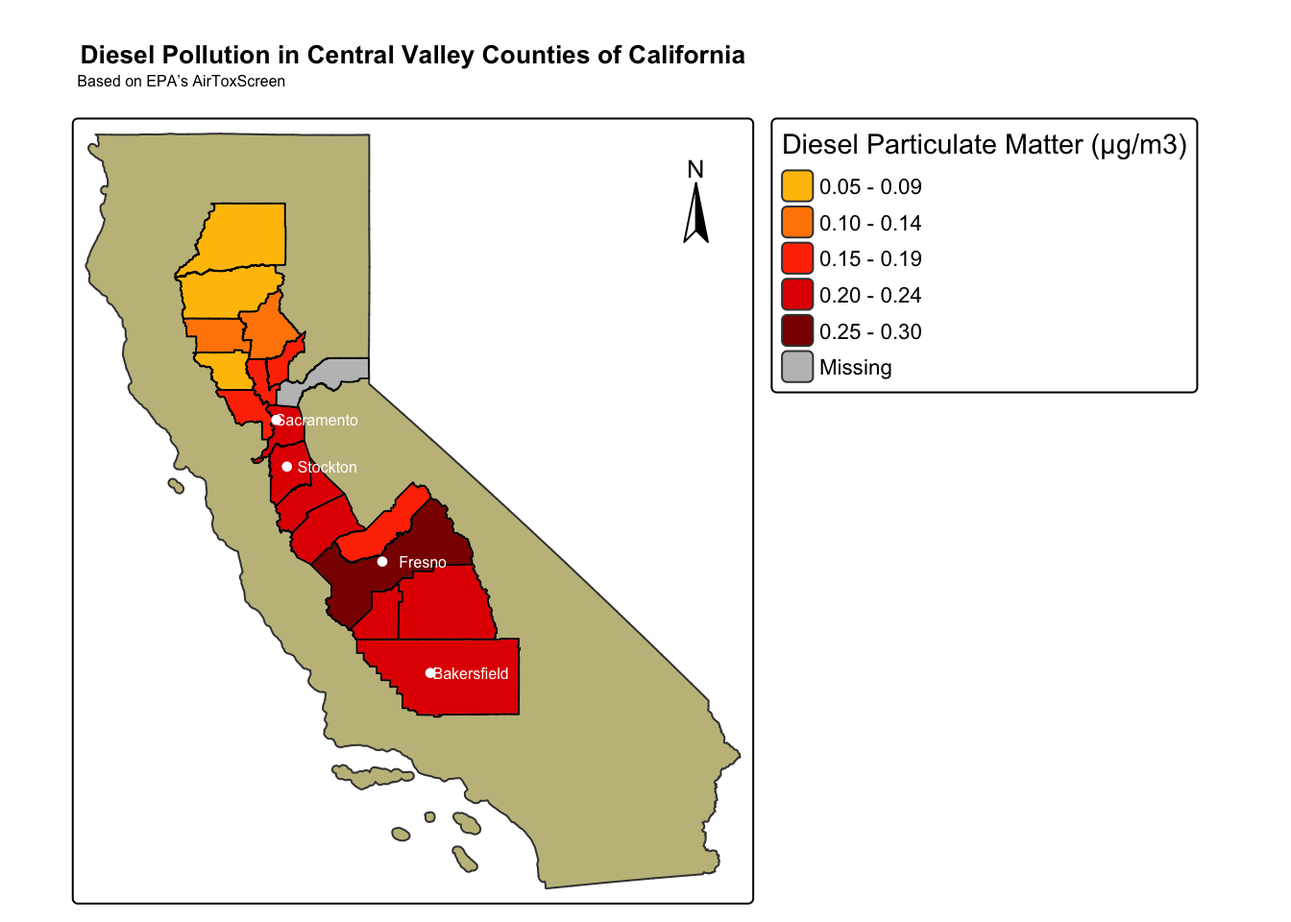
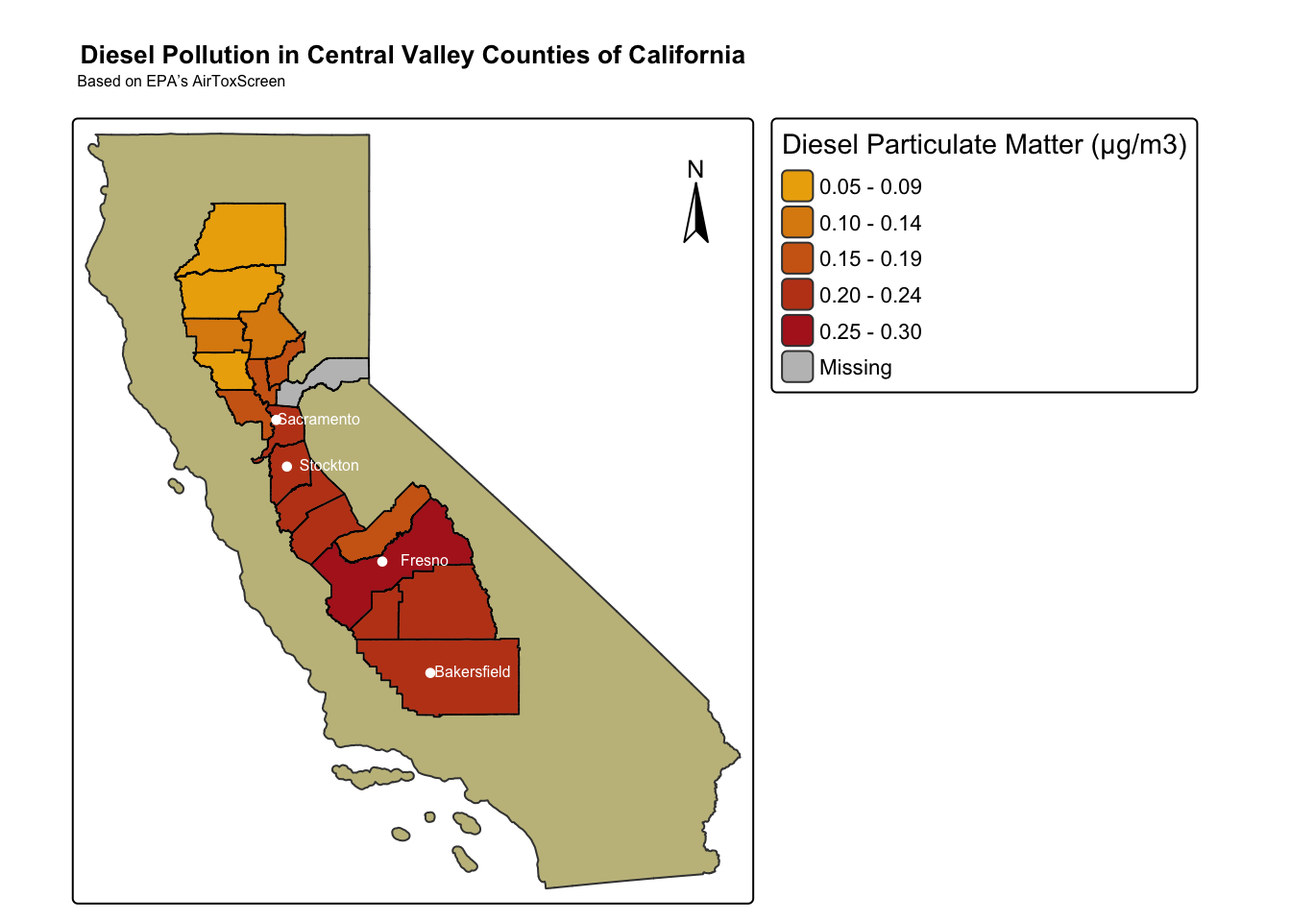
Final edits to homework #1

Changed region(s): [[0.125, 0.3125, 0.4062, 0.7812], [0.5938, 0.2188, 0.6562, 0.375]]

diff --git a/ej_screen.html b/ej_screen.html
@@ -271,42 +271,34 @@ code span.wa { color: #60a0b0; font-weight: bold; font-style: italic; } /* Warni
 </header>
 
 
-<h1 id="exploring-environmental-injustice">Exploring Environmental Injustice</h1>
+<h1 id="exploring-an-environmental-justice-issue">Exploring an Environmental Justice Issue</h1>
 <h3 id="objective" class="anchored">Objective</h3>
 <p>Utilize the U.S. Environmental Protection Agency’s EJ Screen data to produce two maps communicating an environmental justice issue.</p>
 <h3 id="environment-set-up" class="anchored">Environment Set-up</h3>
 <div class="cell">
-<div class="sourceCode cell-code" id="cb1"><pre class="sourceCode r code-with-copy"><code class="sourceCode r"><span id="cb1-1"><a href="#cb1-1" aria-hidden="true" tabindex="-1"></a><span class="co">#| warning: false  </span></span>
-<span id="cb1-2"><a href="#cb1-2" aria-hidden="true" tabindex="-1"></a><span class="co">#| message: false</span></span>
-<span id="cb1-3"><a href="#cb1-3" aria-hidden="true" tabindex="-1"></a></span>
-<span id="cb1-4"><a href="#cb1-4" aria-hidden="true" tabindex="-1"></a></span>
-<span id="cb1-5"><a href="#cb1-5" aria-hidden="true" tabindex="-1"></a><span class="co"># Load relevant libraries</span></span>
-<span id="cb1-6"><a href="#cb1-6" aria-hidden="true" tabindex="-1"></a><span class="fu">library</span>(sf) <span class="co"># For vector data</span></span>
-<span id="cb1-7"><a href="#cb1-7" aria-hidden="true" tabindex="-1"></a><span class="fu">library</span>(stars) <span class="co"># For raster data </span></span>
-<span id="cb1-8"><a href="#cb1-8" aria-hidden="true" tabindex="-1"></a><span class="fu">library</span>(tmap) <span class="co"># For static and interactive maps</span></span>
-<span id="cb1-9"><a href="#cb1-9" aria-hidden="true" tabindex="-1"></a><span class="fu">library</span>(here) <span class="co"># For importing data </span></span>
-<span id="cb1-10"><a href="#cb1-10" aria-hidden="true" tabindex="-1"></a><span class="fu">library</span>(tidyverse) <span class="co"># For data cleaning</span></span>
-<span id="cb1-11"><a href="#cb1-11" aria-hidden="true" tabindex="-1"></a><span class="fu">library</span>(dplyr) <span class="co"># For filtering data </span></span>
-<span id="cb1-12"><a href="#cb1-12" aria-hidden="true" tabindex="-1"></a></span>
-<span id="cb1-13"><a href="#cb1-13" aria-hidden="true" tabindex="-1"></a></span>
-<span id="cb1-14"><a href="#cb1-14" aria-hidden="true" tabindex="-1"></a><span class="co"># If the libraries are not installed, please install the below packages. </span></span>
-<span id="cb1-15"><a href="#cb1-15" aria-hidden="true" tabindex="-1"></a></span>
-<span id="cb1-16"><a href="#cb1-16" aria-hidden="true" tabindex="-1"></a><span class="co"># install.packages("sf")</span></span>
-<span id="cb1-17"><a href="#cb1-17" aria-hidden="true" tabindex="-1"></a><span class="co"># install.packages("stars")</span></span>
-<span id="cb1-18"><a href="#cb1-18" aria-hidden="true" tabindex="-1"></a><span class="co"># install.packages("tmap")</span></span>
-<span id="cb1-19"><a href="#cb1-19" aria-hidden="true" tabindex="-1"></a><span class="co"># install.packages("here")</span></span>
-<span id="cb1-20"><a href="#cb1-20" aria-hidden="true" tabindex="-1"></a><span class="co"># install.packages("tidyverse")</span></span>
-<span id="cb1-21"><a href="#cb1-21" aria-hidden="true" tabindex="-1"></a><span class="co"># install.packages("dplyr")</span></span></code><button title="Copy to Clipboard" class="code-copy-button"><i class="bi"></i></button></pre></div>
+<div class="sourceCode cell-code" id="cb1"><pre class="sourceCode r code-with-copy"><code class="sourceCode r"><span id="cb1-1"><a href="#cb1-1" aria-hidden="true" tabindex="-1"></a><span class="co"># Load relevant libraries</span></span>
+<span id="cb1-2"><a href="#cb1-2" aria-hidden="true" tabindex="-1"></a><span class="fu">library</span>(sf) <span class="co"># For vector data</span></span>
+<span id="cb1-3"><a href="#cb1-3" aria-hidden="true" tabindex="-1"></a><span class="fu">library</span>(stars) <span class="co"># For raster data </span></span>
+<span id="cb1-4"><a href="#cb1-4" aria-hidden="true" tabindex="-1"></a><span class="fu">library</span>(tmap) <span class="co"># For static and interactive maps</span></span>
+<span id="cb1-5"><a href="#cb1-5" aria-hidden="true" tabindex="-1"></a><span class="fu">library</span>(here) <span class="co"># For importing data </span></span>
+<span id="cb1-6"><a href="#cb1-6" aria-hidden="true" tabindex="-1"></a><span class="fu">library</span>(tidyverse) <span class="co"># For data cleaning</span></span>
+<span id="cb1-7"><a href="#cb1-7" aria-hidden="true" tabindex="-1"></a><span class="fu">library</span>(dplyr) <span class="co"># For filtering data </span></span>
+<span id="cb1-8"><a href="#cb1-8" aria-hidden="true" tabindex="-1"></a></span>
+<span id="cb1-9"><a href="#cb1-9" aria-hidden="true" tabindex="-1"></a></span>
+<span id="cb1-10"><a href="#cb1-10" aria-hidden="true" tabindex="-1"></a><span class="co"># If the libraries are not installed, please install the below packages: </span></span>
+<span id="cb1-11"><a href="#cb1-11" aria-hidden="true" tabindex="-1"></a></span>
+<span id="cb1-12"><a href="#cb1-12" aria-hidden="true" tabindex="-1"></a><span class="co"># install.packages("sf")</span></span>
+<span id="cb1-13"><a href="#cb1-13" aria-hidden="true" tabindex="-1"></a><span class="co"># install.packages("stars")</span></span>
+<span id="cb1-14"><a href="#cb1-14" aria-hidden="true" tabindex="-1"></a><span class="co"># install.packages("tmap")</span></span>
+<span id="cb1-15"><a href="#cb1-15" aria-hidden="true" tabindex="-1"></a><span class="co"># install.packages("here")</span></span>
+<span id="cb1-16"><a href="#cb1-16" aria-hidden="true" tabindex="-1"></a><span class="co"># install.packages("tidyverse")</span></span>
+<span id="cb1-17"><a href="#cb1-17" aria-hidden="true" tabindex="-1"></a><span class="co"># install.packages("dplyr")</span></span></code><button title="Copy to Clipboard" class="code-copy-button"><i class="bi"></i></button></pre></div>
 </div>
 <h3 id="load-in-data" class="anchored">Load in data</h3>
 <div class="cell">
-<div class="sourceCode cell-code" id="cb2"><pre class="sourceCode r code-with-copy"><code class="sourceCode r"><span id="cb2-1"><a href="#cb2-1" aria-hidden="true" tabindex="-1"></a><span class="co">#| warning: false  </span></span>
-<span id="cb2-2"><a href="#cb2-2" aria-hidden="true" tabindex="-1"></a><span class="co">#| message: false</span></span>
-<span id="cb2-3"><a href="#cb2-3" aria-hidden="true" tabindex="-1"></a></span>
-<span id="cb2-4"><a href="#cb2-4" aria-hidden="true" tabindex="-1"></a></span>
-<span id="cb2-5"><a href="#cb2-5" aria-hidden="true" tabindex="-1"></a><span class="co"># Read in geodatabase of EJScreen data at the Census Block Group level</span></span>
-<span id="cb2-6"><a href="#cb2-6" aria-hidden="true" tabindex="-1"></a></span>
-<span id="cb2-7"><a href="#cb2-7" aria-hidden="true" tabindex="-1"></a>ejscreen <span class="ot">&lt;-</span> sf<span class="sc">::</span><span class="fu">st_read</span>(here<span class="sc">::</span><span class="fu">here</span>(<span class="st">"data"</span>, <span class="st">"ejscreen"</span>,<span class="st">"EJSCREEN_2023_BG_StatePct_with_AS_CNMI_GU_VI.gdb"</span>))</span></code><button title="Copy to Clipboard" class="code-copy-button"><i class="bi"></i></button></pre></div>
+<div class="sourceCode cell-code" id="cb2"><pre class="sourceCode r code-with-copy"><code class="sourceCode r"><span id="cb2-1"><a href="#cb2-1" aria-hidden="true" tabindex="-1"></a><span class="co"># Read in geodatabase of EJScreen data at the Census Block Group level</span></span>
+<span id="cb2-2"><a href="#cb2-2" aria-hidden="true" tabindex="-1"></a></span>
+<span id="cb2-3"><a href="#cb2-3" aria-hidden="true" tabindex="-1"></a>ejscreen <span class="ot">&lt;-</span> sf<span class="sc">::</span><span class="fu">st_read</span>(here<span class="sc">::</span><span class="fu">here</span>(<span class="st">"data"</span>, <span class="st">"ejscreen"</span>,<span class="st">"EJSCREEN_2023_BG_StatePct_with_AS_CNMI_GU_VI.gdb"</span>))</span></code><button title="Copy to Clipboard" class="code-copy-button"><i class="bi"></i></button></pre></div>
 <div class="cell-output cell-output-stdout">
 <pre><code>Reading layer `EJSCREEN_StatePctiles_with_AS_CNMI_GU_VI' from data source 
   `/Users/isabellasegarra/Documents/MEDS/EDS-223/HW-assignments/eds-223-hw-1/data/ejscreen/EJSCREEN_2023_BG_StatePct_with_AS_CNMI_GU_VI.gdb' 
@@ -317,22 +309,9 @@ Dimension:     XY
 Bounding box:  xmin: -19951910 ymin: -1617130 xmax: 16259830 ymax: 11554350
 Projected CRS: WGS 84 / Pseudo-Mercator</code></pre>
 </div>
-<div class="sourceCode cell-code" id="cb4"><pre class="sourceCode r code-with-copy"><code class="sourceCode r"><span id="cb4-1"><a href="#cb4-1" aria-hidden="true" tabindex="-1"></a><span class="co"># Read in California boundaries</span></span>
+<div class="sourceCode cell-code" id="cb4"><pre class="sourceCode r code-with-copy"><code class="sourceCode r"><span id="cb4-1"><a href="#cb4-1" aria-hidden="true" tabindex="-1"></a><span class="co"># Read in California border </span></span>
 <span id="cb4-2"><a href="#cb4-2" aria-hidden="true" tabindex="-1"></a></span>
-<span id="cb4-3"><a href="#cb4-3" aria-hidden="true" tabindex="-1"></a>california_boundaries <span class="ot">&lt;-</span> sf<span class="sc">::</span><span class="fu">st_read</span>(here<span class="sc">::</span><span class="fu">here</span>(<span class="st">"data"</span>, <span class="st">"county_boundaries"</span>, <span class="st">"California_County_Boundaries_and_Identifiers.shp"</span>))</span></code><button title="Copy to Clipboard" class="code-copy-button"><i class="bi"></i></button></pre></div>
-<div class="cell-output cell-output-stdout">
-<pre><code>Reading layer `California_County_Boundaries_and_Identifiers' from data source 
-  `/Users/isabellasegarra/Documents/MEDS/EDS-223/HW-assignments/eds-223-hw-1/data/county_boundaries/California_County_Boundaries_and_Identifiers.shp' 
-  using driver `ESRI Shapefile'
-Simple feature collection with 58 features and 14 fields
-Geometry type: MULTIPOLYGON
-Dimension:     XY
-Bounding box:  xmin: -373991.4 ymin: -604492.5 xmax: 540083.8 ymax: 450029.3
-Projected CRS: NAD83 / California Albers</code></pre>
-</div>
-<div class="sourceCode cell-code" id="cb6"><pre class="sourceCode r code-with-copy"><code class="sourceCode r"><span id="cb6-1"><a href="#cb6-1" aria-hidden="true" tabindex="-1"></a><span class="co"># Read in California border </span></span>
-<span id="cb6-2"><a href="#cb6-2" aria-hidden="true" tabindex="-1"></a></span>
-<span id="cb6-3"><a href="#cb6-3" aria-hidden="true" tabindex="-1"></a>california_border <span class="ot">&lt;-</span> sf<span class="sc">::</span><span class="fu">st_read</span>(here<span class="sc">::</span><span class="fu">here</span>(<span class="st">"data"</span>, <span class="st">"ca_state"</span>, <span class="st">"CA_State.shp"</span>))</span></code><button title="Copy to Clipboard" class="code-copy-button"><i class="bi"></i></button></pre></div>
+<span id="cb4-3"><a href="#cb4-3" aria-hidden="true" tabindex="-1"></a>california_border <span class="ot">&lt;-</span> sf<span class="sc">::</span><span class="fu">st_read</span>(here<span class="sc">::</span><span class="fu">here</span>(<span class="st">"data"</span>, <span class="st">"ca_state"</span>, <span class="st">"CA_State.shp"</span>))</span></code><button title="Copy to Clipboard" class="code-copy-button"><i class="bi"></i></button></pre></div>
 <div class="cell-output cell-output-stdout">
 <pre><code>Reading layer `CA_State' from data source 
   `/Users/isabellasegarra/Documents/MEDS/EDS-223/HW-assignments/eds-223-hw-1/data/ca_state/CA_State.shp' 
@@ -343,9 +322,9 @@ Dimension:     XY
 Bounding box:  xmin: -13857270 ymin: 3832931 xmax: -12705030 ymax: 5162406
 Projected CRS: Popular Visualisation CRS / Mercator</code></pre>
 </div>
-<div class="sourceCode cell-code" id="cb8"><pre class="sourceCode r code-with-copy"><code class="sourceCode r"><span id="cb8-1"><a href="#cb8-1" aria-hidden="true" tabindex="-1"></a><span class="co"># Read in California cities</span></span>
-<span id="cb8-2"><a href="#cb8-2" aria-hidden="true" tabindex="-1"></a></span>
-<span id="cb8-3"><a href="#cb8-3" aria-hidden="true" tabindex="-1"></a>california_cities <span class="ot">&lt;-</span> sf<span class="sc">::</span><span class="fu">st_read</span>(here<span class="sc">::</span><span class="fu">here</span>(<span class="st">"data"</span>, <span class="st">"California_Cities-shp"</span>, <span class="st">"d86f1c7b-1acd-4a0a-9413-ded642940daf202042-1-425xni.o5rsz.shp"</span>))</span></code><button title="Copy to Clipboard" class="code-copy-button"><i class="bi"></i></button></pre></div>
+<div class="sourceCode cell-code" id="cb6"><pre class="sourceCode r code-with-copy"><code class="sourceCode r"><span id="cb6-1"><a href="#cb6-1" aria-hidden="true" tabindex="-1"></a><span class="co"># Read in California cities</span></span>
+<span id="cb6-2"><a href="#cb6-2" aria-hidden="true" tabindex="-1"></a></span>
+<span id="cb6-3"><a href="#cb6-3" aria-hidden="true" tabindex="-1"></a>california_cities <span class="ot">&lt;-</span> sf<span class="sc">::</span><span class="fu">st_read</span>(here<span class="sc">::</span><span class="fu">here</span>(<span class="st">"data"</span>, <span class="st">"California_Cities-shp"</span>, <span class="st">"d86f1c7b-1acd-4a0a-9413-ded642940daf202042-1-425xni.o5rsz.shp"</span>))</span></code><button title="Copy to Clipboard" class="code-copy-button"><i class="bi"></i></button></pre></div>
 <div class="cell-output cell-output-stdout">
 <pre><code>Reading layer `d86f1c7b-1acd-4a0a-9413-ded642940daf202042-1-425xni.o5rsz' from data source `/Users/isabellasegarra/Documents/MEDS/EDS-223/HW-assignments/eds-223-hw-1/data/California_Cities-shp/d86f1c7b-1acd-4a0a-9413-ded642940daf202042-1-425xni.o5rsz.shp' 
   using driver `ESRI Shapefile'
@@ -357,32 +336,69 @@ Projected CRS: WGS 84 / Pseudo-Mercator</code></pre>
 </div>
 </div>
 <h3 id="filter-data" class="anchored">Filter Data</h3>
+<div class="cell">
+<div class="sourceCode cell-code" id="cb8"><pre class="sourceCode r code-with-copy"><code class="sourceCode r"><span id="cb8-1"><a href="#cb8-1" aria-hidden="true" tabindex="-1"></a><span class="co"># Filter to all data from California </span></span>
+<span id="cb8-2"><a href="#cb8-2" aria-hidden="true" tabindex="-1"></a>california <span class="ot">&lt;-</span> ejscreen <span class="sc">%&gt;%</span></span>
+<span id="cb8-3"><a href="#cb8-3" aria-hidden="true" tabindex="-1"></a>  dplyr<span class="sc">::</span><span class="fu">filter</span>(ST_ABBREV <span class="sc">==</span> <span class="st">"CA"</span>) <span class="sc">%&gt;%</span> </span>
+<span id="cb8-4"><a href="#cb8-4" aria-hidden="true" tabindex="-1"></a>  janitor<span class="sc">::</span><span class="fu">clean_names</span>()</span>
+<span id="cb8-5"><a href="#cb8-5" aria-hidden="true" tabindex="-1"></a></span>
+<span id="cb8-6"><a href="#cb8-6" aria-hidden="true" tabindex="-1"></a></span>
+<span id="cb8-7"><a href="#cb8-7" aria-hidden="true" tabindex="-1"></a><span class="co"># Filter to counties in the Central Valley </span></span>
+<span id="cb8-8"><a href="#cb8-8" aria-hidden="true" tabindex="-1"></a></span>
+<span id="cb8-9"><a href="#cb8-9" aria-hidden="true" tabindex="-1"></a>central_valley <span class="ot">&lt;-</span> california <span class="sc">%&gt;%</span></span>
+<span id="cb8-10"><a href="#cb8-10" aria-hidden="true" tabindex="-1"></a>  dplyr<span class="sc">::</span><span class="fu">filter</span>(cnty_name <span class="sc">%in%</span> <span class="fu">c</span>(<span class="st">"Merced County"</span>, </span>
+<span id="cb8-11"><a href="#cb8-11" aria-hidden="true" tabindex="-1"></a>                                 <span class="st">"Butte County"</span>,</span>
+<span id="cb8-12"><a href="#cb8-12" aria-hidden="true" tabindex="-1"></a>                                 <span class="st">"Kern County"</span>,</span>
+<span id="cb8-13"><a href="#cb8-13" aria-hidden="true" tabindex="-1"></a>                                 <span class="st">"Colusa County"</span>, </span>
+<span id="cb8-14"><a href="#cb8-14" aria-hidden="true" tabindex="-1"></a>                                 <span class="st">"Kings County"</span>, </span>
+<span id="cb8-15"><a href="#cb8-15" aria-hidden="true" tabindex="-1"></a>                                 <span class="st">"Fresno County"</span>, </span>
+<span id="cb8-16"><a href="#cb8-16" aria-hidden="true" tabindex="-1"></a>                                 <span class="st">"Madera County"</span>, </span>
+<span id="cb8-17"><a href="#cb8-17" aria-hidden="true" tabindex="-1"></a>                                 <span class="st">"Glenn County"</span>, </span>
+<span id="cb8-18"><a href="#cb8-18" aria-hidden="true" tabindex="-1"></a>                                 <span class="st">"Placer County"</span>, </span>
+<span id="cb8-19"><a href="#cb8-19" aria-hidden="true" tabindex="-1"></a>                                 <span class="st">"Sacramento County"</span>,</span>
+<span id="cb8-20"><a href="#cb8-20" aria-hidden="true" tabindex="-1"></a>                                 <span class="st">"San Joaquin County"</span>, </span>
+<span id="cb8-21"><a href="#cb8-21" aria-hidden="true" tabindex="-1"></a>                                 <span class="st">"Shasta County"</span>, </span>
+<span id="cb8-22"><a href="#cb8-22" aria-hidden="true" tabindex="-1"></a>                                 <span class="st">"Sutter County"</span>, </span>
+<span id="cb8-23"><a href="#cb8-23" aria-hidden="true" tabindex="-1"></a>                                 <span class="st">"Tehama County"</span>, </span>
+<span id="cb8-24"><a href="#cb8-24" aria-hidden="true" tabindex="-1"></a>                                 <span class="st">"Tulare County"</span>, </span>
+<span id="cb8-25"><a href="#cb8-25" aria-hidden="true" tabindex="-1"></a>                                 <span class="st">"Yolo County"</span>, </span>
+<span id="cb8-26"><a href="#cb8-26" aria-hidden="true" tabindex="-1"></a>                                 <span class="st">"Yuba County"</span>, </span>
+<span id="cb8-27"><a href="#cb8-27" aria-hidden="true" tabindex="-1"></a>                                 <span class="st">"Stanislaus County"</span>))</span>
+<span id="cb8-28"><a href="#cb8-28" aria-hidden="true" tabindex="-1"></a></span>
+<span id="cb8-29"><a href="#cb8-29" aria-hidden="true" tabindex="-1"></a><span class="co"># Find the average values for all variables within counties</span></span>
+<span id="cb8-30"><a href="#cb8-30" aria-hidden="true" tabindex="-1"></a>central_valley_counties <span class="ot">&lt;-</span> <span class="fu">aggregate</span>(central_valley, <span class="at">by =</span> <span class="fu">list</span>(central_valley<span class="sc">$</span>cnty_name), <span class="at">FUN =</span> mean)</span>
+<span id="cb8-31"><a href="#cb8-31" aria-hidden="true" tabindex="-1"></a></span>
+<span id="cb8-32"><a href="#cb8-32" aria-hidden="true" tabindex="-1"></a><span class="co"># Filter california_cities to major central valley cities (Sacramento, Fresno, Bakersfield, and Stockton)</span></span>
+<span id="cb8-33"><a href="#cb8-33" aria-hidden="true" tabindex="-1"></a></span>
+<span id="cb8-34"><a href="#cb8-34" aria-hidden="true" tabindex="-1"></a>central_valley_cities <span class="ot">&lt;-</span> california_cities <span class="sc">%&gt;%</span> </span>
+<span id="cb8-35"><a href="#cb8-35" aria-hidden="true" tabindex="-1"></a>  dplyr<span class="sc">::</span><span class="fu">filter</span>(AREANAME <span class="sc">%in%</span> <span class="fu">c</span>(<span class="st">"Sacramento"</span>, <span class="st">"Fresno"</span>, <span class="st">"Bakersfield"</span>, <span class="st">"Stockton"</span>))</span></code><button title="Copy to Clipboard" class="code-copy-button"><i class="bi"></i></button></pre></div>
+</div>
 <h3 id="map-1-mapping-central-valley-diesel-particulate-matter" class="anchored">Map 1: Mapping Central Valley Diesel Particulate Matter</h3>
 <p>In the Central Valley, diesel pollution, primarily from heavy diesel trucks traveling throughout Highway 99 and the I-5, contribute to the region’s significant air pollution (EPA, 2025). I decided to investigate which counties in the Central Valley see higher concentrations of diesel pollution. From the map, southern Central Valley counties experience higher levels of pollution.</p>
 <div class="cell">
-<div class="sourceCode cell-code" id="cb10"><pre class="sourceCode r code-with-copy"><code class="sourceCode r"><span id="cb10-1"><a href="#cb10-1" aria-hidden="true" tabindex="-1"></a>diesel_map <span class="ot">&lt;-</span> <span class="fu">tm_shape</span>(california_border) <span class="sc">+</span> <span class="co"># Add border of California</span></span>
-<span id="cb10-2"><a href="#cb10-2" aria-hidden="true" tabindex="-1"></a>  <span class="fu">tm_borders</span>(<span class="at">fill =</span> <span class="st">"#c4bd8b"</span>) <span class="sc">+</span></span>
-<span id="cb10-3"><a href="#cb10-3" aria-hidden="true" tabindex="-1"></a><span class="fu">tm_shape</span>(central_valley_counties) <span class="sc">+</span> <span class="co"># Add the central valley counties layer </span></span>
-<span id="cb10-4"><a href="#cb10-4" aria-hidden="true" tabindex="-1"></a>  <span class="fu">tm_polygons</span>(<span class="at">fill =</span> <span class="st">"dslpm"</span>, <span class="co"># Fill the counties based on diesel pollution</span></span>
-<span id="cb10-5"><a href="#cb10-5" aria-hidden="true" tabindex="-1"></a>              <span class="at">fill.scale =</span> <span class="fu">tm_scale</span>(<span class="at">values =</span> <span class="fu">c</span>(<span class="st">"#ffc100"</span>,<span class="st">"#ff7400"</span>, <span class="st">"#ff0000"</span>, <span class="st">"darkred"</span>)),</span>
-<span id="cb10-6"><a href="#cb10-6" aria-hidden="true" tabindex="-1"></a>              <span class="at">fill.legend =</span> <span class="fu">tm_legend</span>(<span class="at">title =</span> </span>
-<span id="cb10-7"><a href="#cb10-7" aria-hidden="true" tabindex="-1"></a>                                        <span class="st">"Diesel Particulate Matter (μg/m3)"</span>, </span>
-<span id="cb10-8"><a href="#cb10-8" aria-hidden="true" tabindex="-1"></a>                                      <span class="at">size =</span> <span class="fl">0.5</span>)) <span class="sc">+</span></span>
-<span id="cb10-9"><a href="#cb10-9" aria-hidden="true" tabindex="-1"></a>  <span class="fu">tm_borders</span>(<span class="at">col =</span> <span class="st">"black"</span>, <span class="at">lwd =</span> <span class="fl">0.5</span> ) <span class="sc">+</span> <span class="co"># Add borders for the counties </span></span>
-<span id="cb10-10"><a href="#cb10-10" aria-hidden="true" tabindex="-1"></a>  <span class="fu">tm_title</span>(<span class="st">"Diesel Pollution in Central Valley Counties of California"</span>, </span>
-<span id="cb10-11"><a href="#cb10-11" aria-hidden="true" tabindex="-1"></a>           <span class="at">size =</span> <span class="dv">1</span>, </span>
-<span id="cb10-12"><a href="#cb10-12" aria-hidden="true" tabindex="-1"></a>           <span class="at">fontface =</span> <span class="st">"bold"</span>) <span class="sc">+</span></span>
-<span id="cb10-13"><a href="#cb10-13" aria-hidden="true" tabindex="-1"></a>  <span class="fu">tm_title</span>(<span class="st">"Based on EPA’s AirToxScreen"</span>, <span class="at">size =</span> <span class="fl">0.5</span>)<span class="sc">+</span></span>
-<span id="cb10-14"><a href="#cb10-14" aria-hidden="true" tabindex="-1"></a><span class="fu">tm_shape</span>(central_valley_cities) <span class="sc">+</span> <span class="co"># Add central valley city names </span></span>
-<span id="cb10-15"><a href="#cb10-15" aria-hidden="true" tabindex="-1"></a>  <span class="fu">tm_dots</span>(<span class="at">fill =</span> <span class="st">"white"</span>) <span class="sc">+</span></span>
-<span id="cb10-16"><a href="#cb10-16" aria-hidden="true" tabindex="-1"></a>  <span class="fu">tm_text</span>(<span class="st">"AREANAME"</span>,</span>
-<span id="cb10-17"><a href="#cb10-17" aria-hidden="true" tabindex="-1"></a>          <span class="at">col =</span> <span class="st">"white"</span>,</span>
-<span id="cb10-18"><a href="#cb10-18" aria-hidden="true" tabindex="-1"></a>          <span class="at">size =</span> <span class="fl">0.5</span>, </span>
-<span id="cb10-19"><a href="#cb10-19" aria-hidden="true" tabindex="-1"></a>          <span class="at">xmod =</span> <span class="fl">2.2</span>,  <span class="co"># Shift labels to the right</span></span>
-<span id="cb10-20"><a href="#cb10-20" aria-hidden="true" tabindex="-1"></a>    <span class="at">ymod =</span> <span class="dv">0</span> ) <span class="sc">+</span> </span>
-<span id="cb10-21"><a href="#cb10-21" aria-hidden="true" tabindex="-1"></a>  <span class="fu">tm_compass</span>(<span class="at">position =</span> <span class="fu">c</span>(<span class="st">"right"</span>, <span class="st">"top"</span>)) </span>
-<span id="cb10-22"><a href="#cb10-22" aria-hidden="true" tabindex="-1"></a>  </span>
-<span id="cb10-23"><a href="#cb10-23" aria-hidden="true" tabindex="-1"></a>diesel_map <span class="co"># View diesel map</span></span></code><button title="Copy to Clipboard" class="code-copy-button"><i class="bi"></i></button></pre></div>
+<div class="sourceCode cell-code" id="cb9"><pre class="sourceCode r code-with-copy"><code class="sourceCode r"><span id="cb9-1"><a href="#cb9-1" aria-hidden="true" tabindex="-1"></a>diesel_map <span class="ot">&lt;-</span> <span class="fu">tm_shape</span>(california_border) <span class="sc">+</span> <span class="co"># Add border of California</span></span>
+<span id="cb9-2"><a href="#cb9-2" aria-hidden="true" tabindex="-1"></a>  <span class="fu">tm_borders</span>(<span class="at">fill =</span> <span class="st">"#c4bd8b"</span>) <span class="sc">+</span></span>
+<span id="cb9-3"><a href="#cb9-3" aria-hidden="true" tabindex="-1"></a><span class="fu">tm_shape</span>(central_valley_counties) <span class="sc">+</span> <span class="co"># Add the central valley counties layer </span></span>
+<span id="cb9-4"><a href="#cb9-4" aria-hidden="true" tabindex="-1"></a>  <span class="fu">tm_polygons</span>(<span class="at">fill =</span> <span class="st">"dslpm"</span>, <span class="co"># Fill the counties based on diesel pollution</span></span>
+<span id="cb9-5"><a href="#cb9-5" aria-hidden="true" tabindex="-1"></a>              <span class="at">fill.scale =</span> <span class="fu">tm_scale</span>(<span class="at">values =</span> <span class="fu">c</span>(<span class="st">"#ECAD09"</span>,<span class="st">"#D97F12"</span>, <span class="st">"#C5501A"</span>, <span class="st">"#B22222"</span>)),</span>
+<span id="cb9-6"><a href="#cb9-6" aria-hidden="true" tabindex="-1"></a>              <span class="at">fill.legend =</span> <span class="fu">tm_legend</span>(<span class="at">title =</span> </span>
+<span id="cb9-7"><a href="#cb9-7" aria-hidden="true" tabindex="-1"></a>                                        <span class="st">"Diesel Particulate Matter (μg/m3)"</span>, </span>
+<span id="cb9-8"><a href="#cb9-8" aria-hidden="true" tabindex="-1"></a>                                      <span class="at">size =</span> <span class="fl">0.5</span>)) <span class="sc">+</span></span>
+<span id="cb9-9"><a href="#cb9-9" aria-hidden="true" tabindex="-1"></a>  <span class="fu">tm_borders</span>(<span class="at">col =</span> <span class="st">"black"</span>, <span class="at">lwd =</span> <span class="fl">0.5</span> ) <span class="sc">+</span> <span class="co"># Add borders for the counties </span></span>
+<span id="cb9-10"><a href="#cb9-10" aria-hidden="true" tabindex="-1"></a>  <span class="fu">tm_title</span>(<span class="st">"Diesel Pollution in Central Valley Counties of California"</span>, </span>
+<span id="cb9-11"><a href="#cb9-11" aria-hidden="true" tabindex="-1"></a>           <span class="at">size =</span> <span class="dv">1</span>, </span>
+<span id="cb9-12"><a href="#cb9-12" aria-hidden="true" tabindex="-1"></a>           <span class="at">fontface =</span> <span class="st">"bold"</span>) <span class="sc">+</span></span>
+<span id="cb9-13"><a href="#cb9-13" aria-hidden="true" tabindex="-1"></a>  <span class="fu">tm_title</span>(<span class="st">"Based on EPA’s AirToxScreen"</span>, <span class="at">size =</span> <span class="fl">0.5</span>)<span class="sc">+</span></span>
+<span id="cb9-14"><a href="#cb9-14" aria-hidden="true" tabindex="-1"></a><span class="fu">tm_shape</span>(central_valley_cities) <span class="sc">+</span> <span class="co"># Add central valley city names </span></span>
+<span id="cb9-15"><a href="#cb9-15" aria-hidden="true" tabindex="-1"></a>  <span class="fu">tm_dots</span>(<span class="at">fill =</span> <span class="st">"white"</span>) <span class="sc">+</span></span>
+<span id="cb9-16"><a href="#cb9-16" aria-hidden="true" tabindex="-1"></a>  <span class="fu">tm_text</span>(<span class="st">"AREANAME"</span>,</span>
+<span id="cb9-17"><a href="#cb9-17" aria-hidden="true" tabindex="-1"></a>          <span class="at">col =</span> <span class="st">"white"</span>,</span>
+<span id="cb9-18"><a href="#cb9-18" aria-hidden="true" tabindex="-1"></a>          <span class="at">size =</span> <span class="fl">0.5</span>, </span>
+<span id="cb9-19"><a href="#cb9-19" aria-hidden="true" tabindex="-1"></a>          <span class="at">xmod =</span> <span class="fl">2.3</span>,  <span class="co"># Shift labels to the right</span></span>
+<span id="cb9-20"><a href="#cb9-20" aria-hidden="true" tabindex="-1"></a>    <span class="at">ymod =</span> <span class="fl">0.1</span> ) <span class="sc">+</span>  <span class="co"># Shift labels up/down</span></span>
+<span id="cb9-21"><a href="#cb9-21" aria-hidden="true" tabindex="-1"></a>  <span class="fu">tm_compass</span>(<span class="at">position =</span> <span class="fu">c</span>(<span class="st">"right"</span>, <span class="st">"top"</span>))</span>
+<span id="cb9-22"><a href="#cb9-22" aria-hidden="true" tabindex="-1"></a></span>
+<span id="cb9-23"><a href="#cb9-23" aria-hidden="true" tabindex="-1"></a>diesel_map <span class="co"># View diesel map</span></span></code><button title="Copy to Clipboard" class="code-copy-button"><i class="bi"></i></button></pre></div>
 <div class="cell-output-display">
 <div>
 <figure>
@@ -394,29 +410,29 @@ Projected CRS: WGS 84 / Pseudo-Mercator</code></pre>
 <h3 id="map-2-mapping-central-valley-ozone" class="anchored">Map 2: Mapping Central Valley Ozone</h3>
 <p>Diesel pollution is linked to increased ozone production (EPA, 2025). Increased ozone in the atmosphere impacts the health of the ecosystem and surrounding communities. Due to this linkage, I decided to map the ozone (ppb) levels in Central Valley counties. From the map, southern Central Valley counties have increased ozone levels showing a possible connection between diesel and ozone pollution.</p>
 <div class="cell">
-<div class="sourceCode cell-code" id="cb11"><pre class="sourceCode r code-with-copy"><code class="sourceCode r"><span id="cb11-1"><a href="#cb11-1" aria-hidden="true" tabindex="-1"></a>ozone_map <span class="ot">&lt;-</span> <span class="fu">tm_shape</span>(california_border) <span class="sc">+</span> <span class="co"># Add border of California</span></span>
-<span id="cb11-2"><a href="#cb11-2" aria-hidden="true" tabindex="-1"></a>  <span class="fu">tm_borders</span>(<span class="at">fill =</span> <span class="st">"#c4bd8b"</span>) <span class="sc">+</span></span>
-<span id="cb11-3"><a href="#cb11-3" aria-hidden="true" tabindex="-1"></a><span class="fu">tm_shape</span>(central_valley_counties) <span class="sc">+</span> <span class="co"># Add the central valley counties layer </span></span>
-<span id="cb11-4"><a href="#cb11-4" aria-hidden="true" tabindex="-1"></a>  <span class="fu">tm_polygons</span>(<span class="at">fill =</span> <span class="st">"ozone"</span>, <span class="co"># Fill the counties based on ozone pollution</span></span>
-<span id="cb11-5"><a href="#cb11-5" aria-hidden="true" tabindex="-1"></a>              <span class="at">fill.scale =</span> <span class="fu">tm_scale</span>(<span class="at">values =</span> <span class="fu">c</span>(<span class="st">"#C0C6CB"</span>,<span class="st">"#7688BB"</span>, <span class="st">"#304FAF"</span>, <span class="st">"#073763"</span>)),</span>
-<span id="cb11-6"><a href="#cb11-6" aria-hidden="true" tabindex="-1"></a>              <span class="at">fill.legend =</span> <span class="fu">tm_legend</span>(<span class="at">title =</span> </span>
-<span id="cb11-7"><a href="#cb11-7" aria-hidden="true" tabindex="-1"></a>                                        <span class="st">"Ozone (parts per billion)"</span>, </span>
-<span id="cb11-8"><a href="#cb11-8" aria-hidden="true" tabindex="-1"></a>                                      <span class="at">size =</span> <span class="fl">0.5</span>)) <span class="sc">+</span></span>
-<span id="cb11-9"><a href="#cb11-9" aria-hidden="true" tabindex="-1"></a>  <span class="fu">tm_borders</span>(<span class="at">col =</span> <span class="st">"black"</span>, <span class="at">lwd =</span> <span class="fl">0.5</span> ) <span class="sc">+</span> <span class="co"># Add borders for the counties </span></span>
-<span id="cb11-10"><a href="#cb11-10" aria-hidden="true" tabindex="-1"></a>  <span class="fu">tm_title</span>(<span class="st">"Ozone Pollution in Central Valley Counties of California"</span>, </span>
-<span id="cb11-11"><a href="#cb11-11" aria-hidden="true" tabindex="-1"></a>           <span class="at">size =</span> <span class="dv">2</span>, </span>
-<span id="cb11-12"><a href="#cb11-12" aria-hidden="true" tabindex="-1"></a>           <span class="at">fontface =</span> <span class="st">"bold"</span>) <span class="sc">+</span></span>
-<span id="cb11-13"><a href="#cb11-13" aria-hidden="true" tabindex="-1"></a>  <span class="fu">tm_title</span>(<span class="st">"Ozone annual mean top 10 of daily maximum 8-hour concentration in air. EJScreen v2.2"</span>, <span class="at">size =</span> <span class="fl">0.5</span>) <span class="sc">+</span></span>
-<span id="cb11-14"><a href="#cb11-14" aria-hidden="true" tabindex="-1"></a><span class="fu">tm_shape</span>(central_valley_cities) <span class="sc">+</span> <span class="co"># Add central valley city names </span></span>
-<span id="cb11-15"><a href="#cb11-15" aria-hidden="true" tabindex="-1"></a>  <span class="fu">tm_dots</span>(<span class="at">fill =</span> <span class="st">"white"</span>) <span class="sc">+</span></span>
-<span id="cb11-16"><a href="#cb11-16" aria-hidden="true" tabindex="-1"></a>  <span class="fu">tm_text</span>(<span class="st">"AREANAME"</span>,</span>
-<span id="cb11-17"><a href="#cb11-17" aria-hidden="true" tabindex="-1"></a>          <span class="at">col =</span> <span class="st">"white"</span>,</span>
-<span id="cb11-18"><a href="#cb11-18" aria-hidden="true" tabindex="-1"></a>          <span class="at">size =</span> <span class="fl">0.5</span>, </span>
-<span id="cb11-19"><a href="#cb11-19" aria-hidden="true" tabindex="-1"></a>          <span class="at">xmod =</span> <span class="fl">2.22</span>,  <span class="co"># Shift labels to the right</span></span>
-<span id="cb11-20"><a href="#cb11-20" aria-hidden="true" tabindex="-1"></a>    <span class="at">ymod =</span> <span class="dv">0</span> ) <span class="sc">+</span> </span>
-<span id="cb11-21"><a href="#cb11-21" aria-hidden="true" tabindex="-1"></a>  <span class="fu">tm_compass</span>(<span class="at">position =</span> <span class="fu">c</span>(<span class="st">"right"</span>, <span class="st">"top"</span>))</span>
-<span id="cb11-22"><a href="#cb11-22" aria-hidden="true" tabindex="-1"></a></span>
-<span id="cb11-23"><a href="#cb11-23" aria-hidden="true" tabindex="-1"></a>ozone_map <span class="co"># View ozone map</span></span></code><button title="Copy to Clipboard" class="code-copy-button"><i class="bi"></i></button></pre></div>
+<div class="sourceCode cell-code" id="cb10"><pre class="sourceCode r code-with-copy"><code class="sourceCode r"><span id="cb10-1"><a href="#cb10-1" aria-hidden="true" tabindex="-1"></a>ozone_map <span class="ot">&lt;-</span> <span class="fu">tm_shape</span>(california_border) <span class="sc">+</span> <span class="co"># Add border of California</span></span>
+<span id="cb10-2"><a href="#cb10-2" aria-hidden="true" tabindex="-1"></a>  <span class="fu">tm_borders</span>(<span class="at">fill =</span> <span class="st">"#c4bd8b"</span>) <span class="sc">+</span></span>
+<span id="cb10-3"><a href="#cb10-3" aria-hidden="true" tabindex="-1"></a><span class="fu">tm_shape</span>(central_valley_counties) <span class="sc">+</span> <span class="co"># Add the central valley counties layer </span></span>
+<span id="cb10-4"><a href="#cb10-4" aria-hidden="true" tabindex="-1"></a>  <span class="fu">tm_polygons</span>(<span class="at">fill =</span> <span class="st">"ozone"</span>, <span class="co"># Fill the counties based on ozone pollution</span></span>
+<span id="cb10-5"><a href="#cb10-5" aria-hidden="true" tabindex="-1"></a>              <span class="at">fill.scale =</span> <span class="fu">tm_scale</span>(<span class="at">values =</span> <span class="fu">c</span>(<span class="st">"#C0C6CB"</span>,<span class="st">"#7688BB"</span>, <span class="st">"#304FAF"</span>, <span class="st">"#073763"</span>)),</span>
+<span id="cb10-6"><a href="#cb10-6" aria-hidden="true" tabindex="-1"></a>              <span class="at">fill.legend =</span> <span class="fu">tm_legend</span>(<span class="at">title =</span> </span>
+<span id="cb10-7"><a href="#cb10-7" aria-hidden="true" tabindex="-1"></a>                                        <span class="st">"Ozone (parts per billion)"</span>, </span>
+<span id="cb10-8"><a href="#cb10-8" aria-hidden="true" tabindex="-1"></a>                                      <span class="at">size =</span> <span class="fl">0.5</span>)) <span class="sc">+</span></span>
+<span id="cb10-9"><a href="#cb10-9" aria-hidden="true" tabindex="-1"></a>  <span class="fu">tm_borders</span>(<span class="at">col =</span> <span class="st">"black"</span>, <span class="at">lwd =</span> <span class="fl">0.5</span> ) <span class="sc">+</span> <span class="co"># Add borders for the counties </span></span>
+<span id="cb10-10"><a href="#cb10-10" aria-hidden="true" tabindex="-1"></a>  <span class="fu">tm_title</span>(<span class="st">"Ozone Pollution in Central Valley Counties of California"</span>, </span>
+<span id="cb10-11"><a href="#cb10-11" aria-hidden="true" tabindex="-1"></a>           <span class="at">size =</span> <span class="dv">1</span>, </span>
+<span id="cb10-12"><a href="#cb10-12" aria-hidden="true" tabindex="-1"></a>           <span class="at">fontface =</span> <span class="st">"bold"</span>) <span class="sc">+</span></span>
+<span id="cb10-13"><a href="#cb10-13" aria-hidden="true" tabindex="-1"></a>  <span class="fu">tm_title</span>(<span class="st">"Ozone annual mean top 10 of daily maximum 8-hour concentration in air. EJScreen v2.2"</span>, <span class="at">size =</span> <span class="fl">0.5</span>) <span class="sc">+</span></span>
+<span id="cb10-14"><a href="#cb10-14" aria-hidden="true" tabindex="-1"></a><span class="fu">tm_shape</span>(central_valley_cities) <span class="sc">+</span> <span class="co"># Add central valley city names </span></span>
+<span id="cb10-15"><a href="#cb10-15" aria-hidden="true" tabindex="-1"></a>  <span class="fu">tm_dots</span>(<span class="at">fill =</span> <span class="st">"white"</span>) <span class="sc">+</span></span>
+<span id="cb10-16"><a href="#cb10-16" aria-hidden="true" tabindex="-1"></a>  <span class="fu">tm_text</span>(<span class="st">"AREANAME"</span>,</span>
+<span id="cb10-17"><a href="#cb10-17" aria-hidden="true" tabindex="-1"></a>          <span class="at">col =</span> <span class="st">"white"</span>,</span>
+<span id="cb10-18"><a href="#cb10-18" aria-hidden="true" tabindex="-1"></a>          <span class="at">size =</span> <span class="fl">0.5</span>, </span>
+<span id="cb10-19"><a href="#cb10-19" aria-hidden="true" tabindex="-1"></a>          <span class="at">xmod =</span> <span class="fl">2.3</span>,  <span class="co"># Shift labels to the right</span></span>
+<span id="cb10-20"><a href="#cb10-20" aria-hidden="true" tabindex="-1"></a>    <span class="at">ymod =</span> <span class="fl">0.1</span> ) <span class="sc">+</span>  <span class="co"># Shift labels up/down</span></span>
+<span id="cb10-21"><a href="#cb10-21" aria-hidden="true" tabindex="-1"></a>  <span class="fu">tm_compass</span>(<span class="at">position =</span> <span class="fu">c</span>(<span class="st">"right"</span>, <span class="st">"top"</span>))</span>
+<span id="cb10-22"><a href="#cb10-22" aria-hidden="true" tabindex="-1"></a></span>
+<span id="cb10-23"><a href="#cb10-23" aria-hidden="true" tabindex="-1"></a>ozone_map <span class="co"># View ozone map</span></span></code><button title="Copy to Clipboard" class="code-copy-button"><i class="bi"></i></button></pre></div>
 <div class="cell-output-display">
 <div>
 <figure>

diff --git a/README.md b/README.md
@@ -1,8 +1,6 @@
 
 # Exploring an Environmental Justice Issue: Diesel and Ozone Pollution in California's Central Valley
 
-![](figs/Flowchart.png)
-
 ## Contributor:
 
 Isabella Segarra (Masters of Environmental Data Science, UC Santa
@@ -24,8 +22,7 @@ PDF](link)
   - Column descriptions: EJSCREEN_2023_BG_Columns.xlsx 
   - Mapping layers:EJSCREEN-2023_BG_StatePct_with_AS_CNMI_GU_VI.gbd 
 - ca_state: Files for mapping California state boundary. I used '/CA_State.shp'.
-- county_boundaries: Files for mapping California county boundaries. I
-used '/California_County_boundaries_and_Identifiers.shp'.
+- California_Cities-shp: Files for mapping California city names. I used '/d86f1c7b-1acd-4a0a-9413-ded642940daf202042-1-425xni.o5rsz.shp'. 
 
 ## How to access the data:
 
